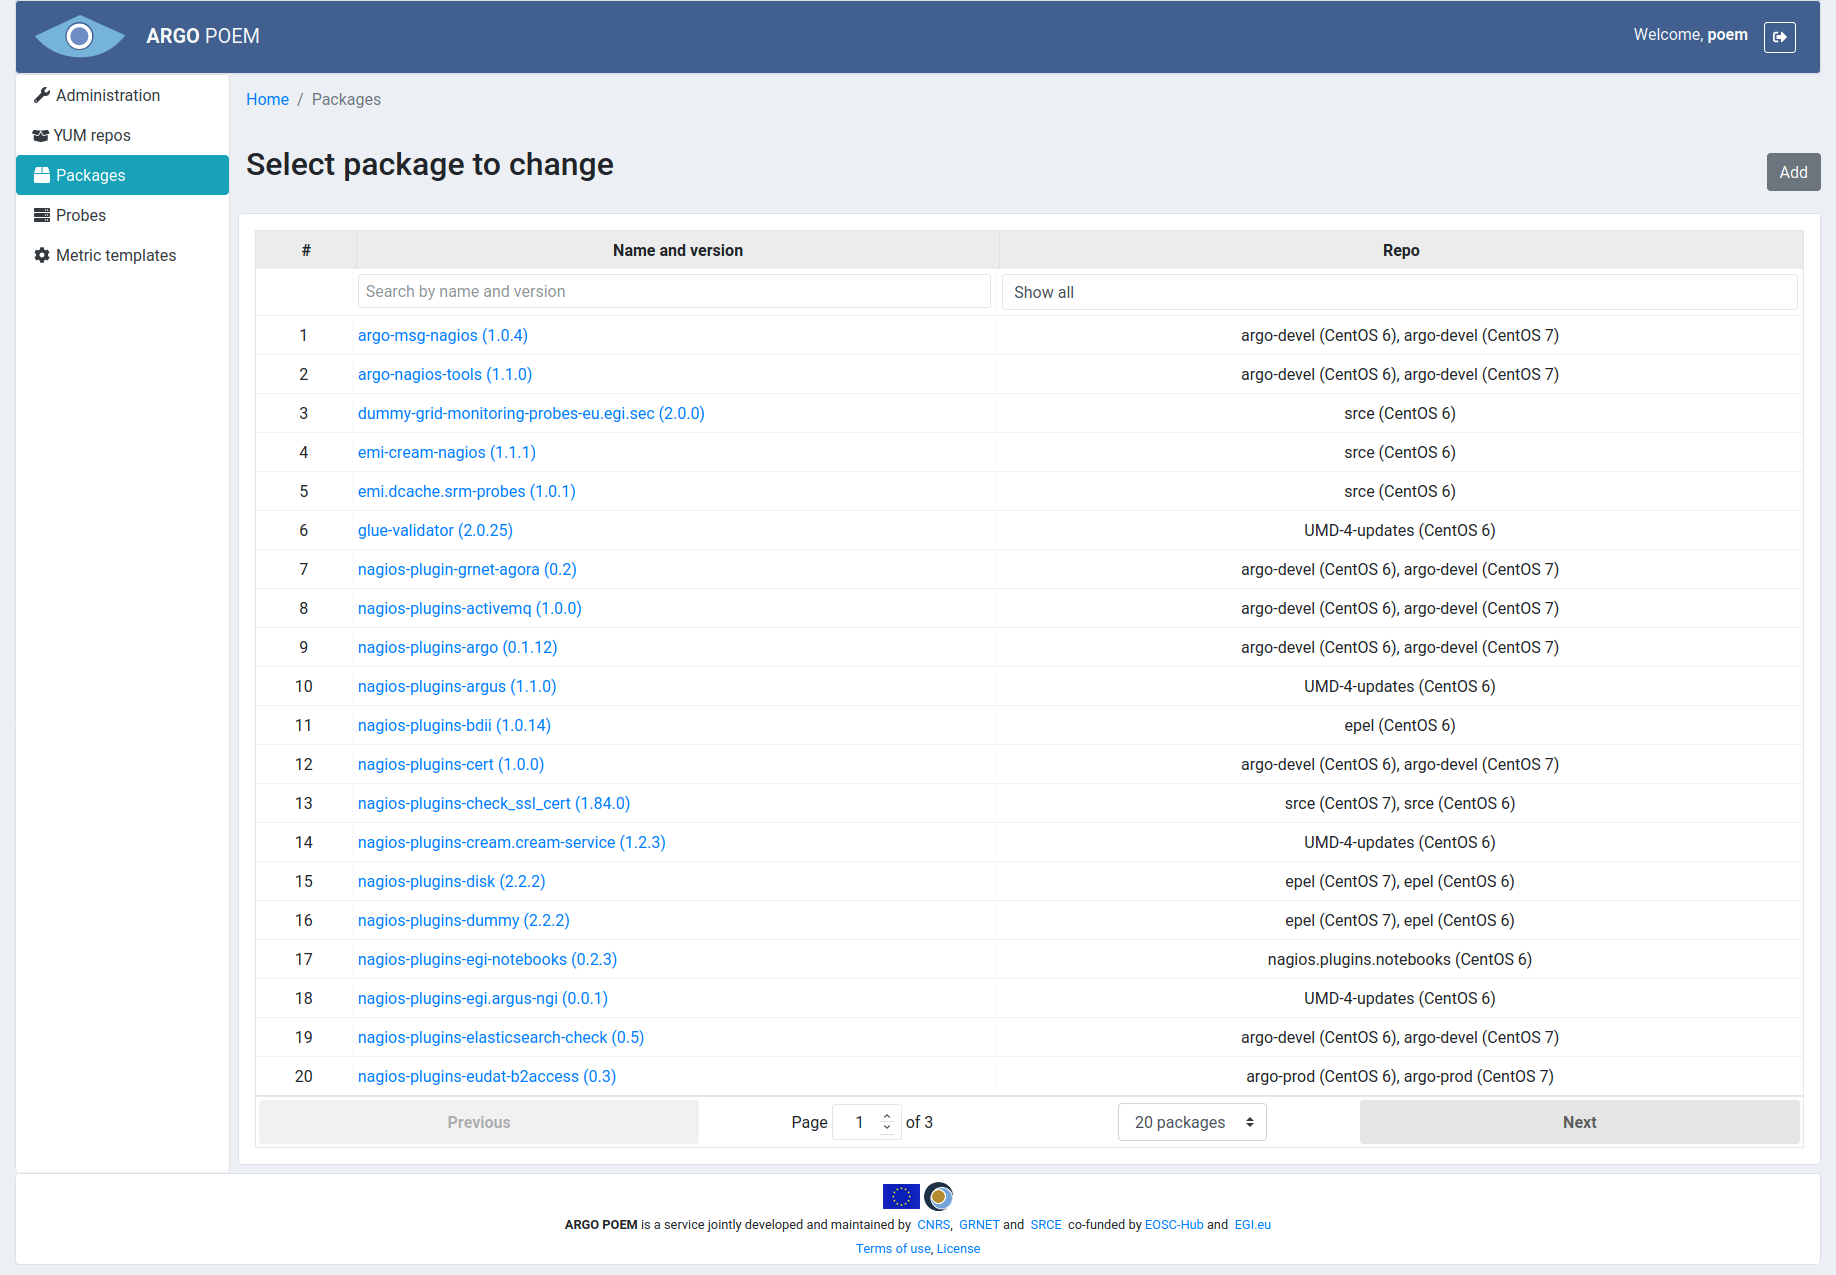
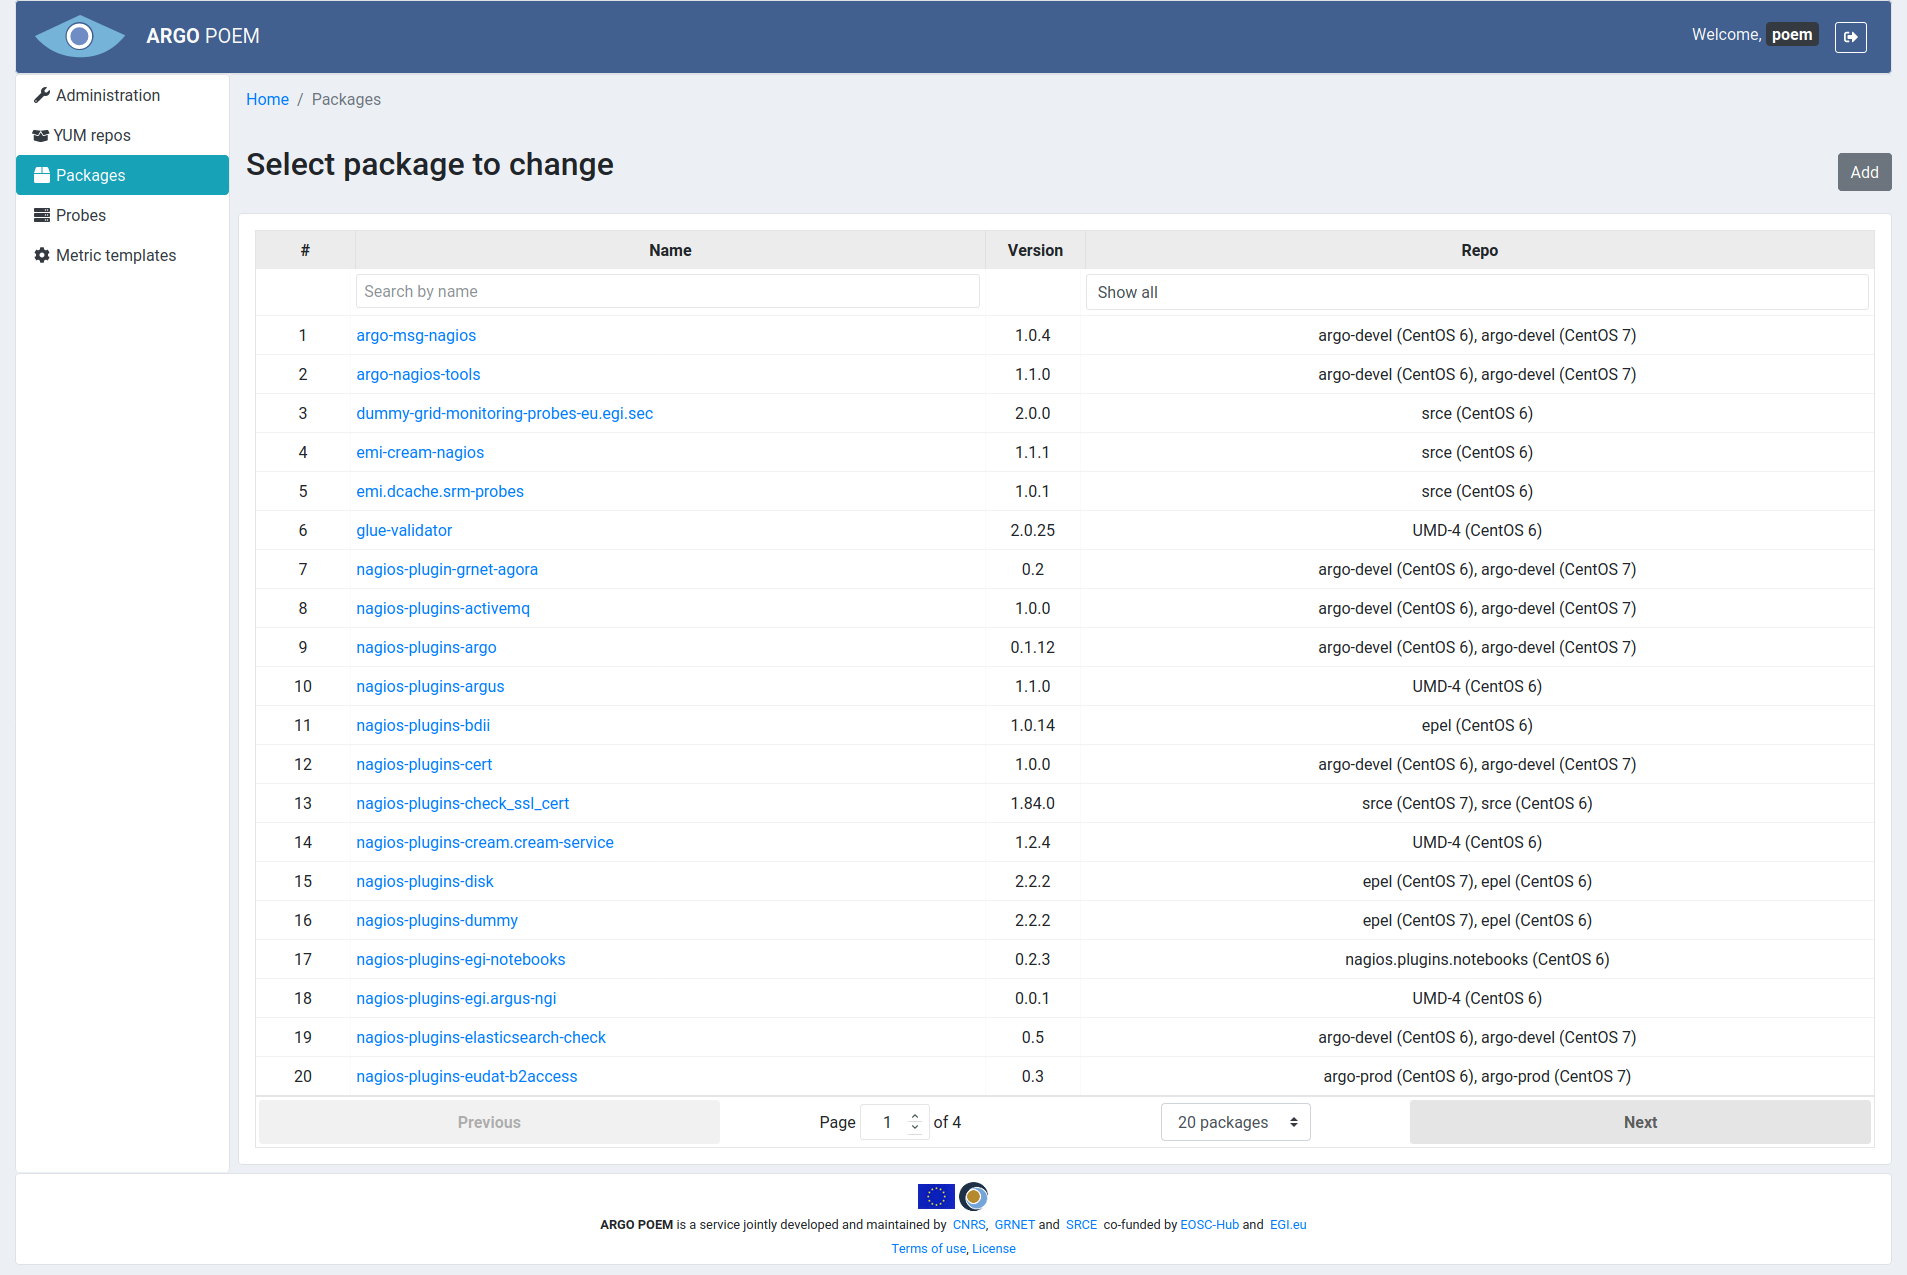
updated documentation

diff --git a/doc/v1/docs/tenant_packages.md b/doc/v1/docs/tenant_packages.md
@@ -1,0 +1,23 @@
+# Packages
+
+Packages are `.rpm` packages which provide probes. 
+
+## List of packages
+
+The page shows packages that provide probes and metrics the tenant uses. It is shown in the image below. It is available through [Administration page](tenant_administration.md), and as such is only available to super users. 
+
+Packages can be filtered by name, and repo they are part of. 
+
+![Tenant Package List](figures/tenant_packages.png)
+
+## Package details
+
+By clicking the package name, the user is redirected to package detail page. It is shown in the image below. 
+
+![Tenant Package Details](figures/tenant_package_details.png)
+
+Tenant users are not allowed to change anything in the page. However, they have the possibility to choose which version of the package they wish to use. They do so by choosing the version in version drop down field, and clicking the **Update metrics** button. That way, metrics will automatically be updated with probes with corresponding versions. 
+
+When user clicks the **Update metrics** button, there will be a modal dialogue which informs him/her of the changes that are going to take place and asks for confirmation (shown in the image below). 
+
+![Tenant Package Modal](figures/tenant_package_modal_dialogue.png)

diff --git a/doc/v1/docs/tenant_metric_templates.md b/doc/v1/docs/tenant_metric_templates.md
@@ -8,8 +8,6 @@ Metric templates page is only accessible through Administration page. It is used
 
 The list shows all the available metric templates defined in POEM. User can select metric templates by clicking the checkbox next to their names, or select all metric templates by checking **Select all** checkbox. 
 
-Before user can even start importing metrics, (s)he must choose OS. It is possible to choose between CentOS 6 and CentOS 7. It is the OS installed in tenant's monitoring box. When the appropriate OS is selected from the drop down menu, only metric templates available for that OS are shown.
-
 Metric templates can then further be filtered by probe and type (active or passive).
 
 Note that when metric templates are filtered by any condition, **Select all** checkbox selects only the filtered metric templates. For example, if the user filters metric templates by probe, say `check_http`, and (s)he checks **Select all**, metric templates associated to `check_http` probe are going to be selected.

diff --git a/doc/v1/docs/tenant_metrics.md b/doc/v1/docs/tenant_metrics.md
@@ -18,7 +18,7 @@ Particular metric's page is shown in the image below.
 
 ![Tenant Metric Detail](figures/tenant_metrics_details.png)
 
-Most of the fields is disabled. Tenant users are only allowed to modify four of the configuration values, group and probe version. User may only choose among groups that are associated to him. Exception to this rule is user with superuser permission, (s)he can pick any existing group. In case of probes, users can only choose among versions of the same probe in a drop down menu. Metric configuration is then going to automatically be updated, if necessary.
+Most of the fields is disabled. Tenant users are only allowed to modify four of the configuration values and group. User may only choose among groups that are associated to him. Exception to this rule is user with superuser permission, (s)he can pick any existing group. 
 
 Fields descriptions are given in [metric template documentation](superadmin_metric_templates.md#field-descriptions).
 

diff --git a/doc/v1/docs/tenant_administration.md b/doc/v1/docs/tenant_administration.md
@@ -16,7 +16,9 @@ Second section, **Authentication and authorization**, is only available through 
 
 ### SuperAdmin POEM data
 
-Third section, **SuperAdmin POEM data**, are pages of read-only resources. They are set up through SuperAdmin POEM UI, and tenant users are not allowed to modify them.
+Third section, **SuperAdmin POEM data**, are pages of read-only resources. They are set up through SuperAdmin POEM UI, and tenant users are not allowed to modify them. 
+
+Through [Metric template page](tenant_metric_templates.md), users can import metrics. Through [Package page](tenant_packages.md), users can change versions of packages they use, and metrics will be automatically updated to use the probes provided by the chosen package version.
 
 ### APIKey Permissions
 

diff --git a/doc/v1/docs/superadmin_packages.md b/doc/v1/docs/superadmin_packages.md
@@ -8,7 +8,7 @@ The page is accessible from the menu on the left side. It is shown in the image 
 
 ![SuperAdmin packages](figures/superadmin_packages.png)
 
-Packages can be filtered by choosing repo name from the drop down menu in **Repo** column, and by name by typing values in search bar on top of **Name and version** column. 
+Packages can be filtered by choosing repo name from the drop down menu in **Repo** column, and by name by typing values in search bar on top of **Name** column. 
 
 ## Package details
 
